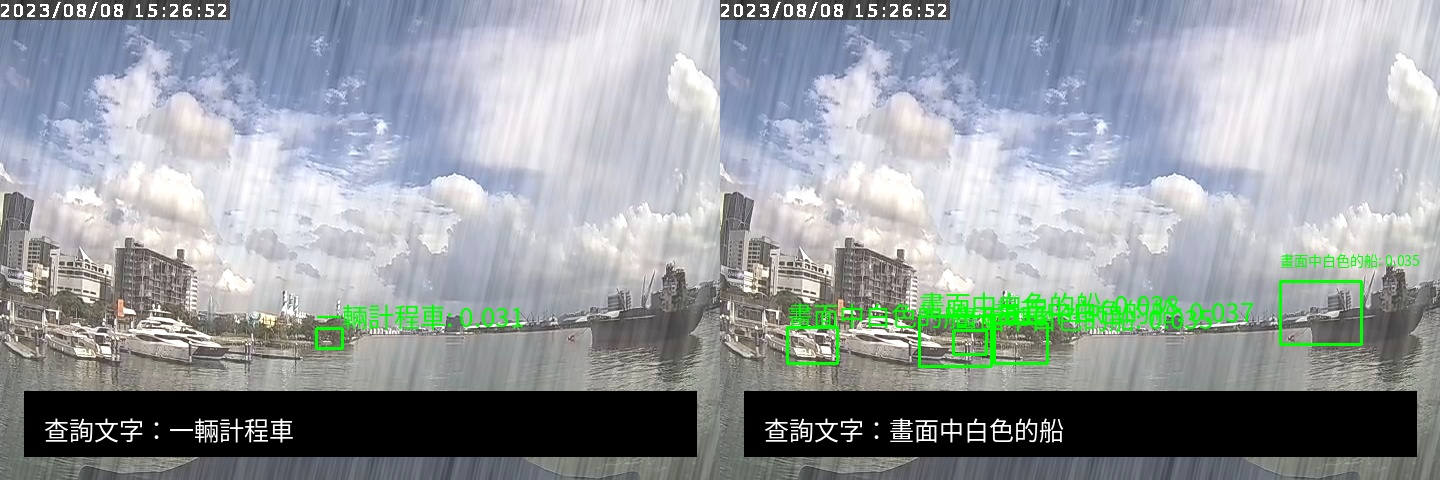
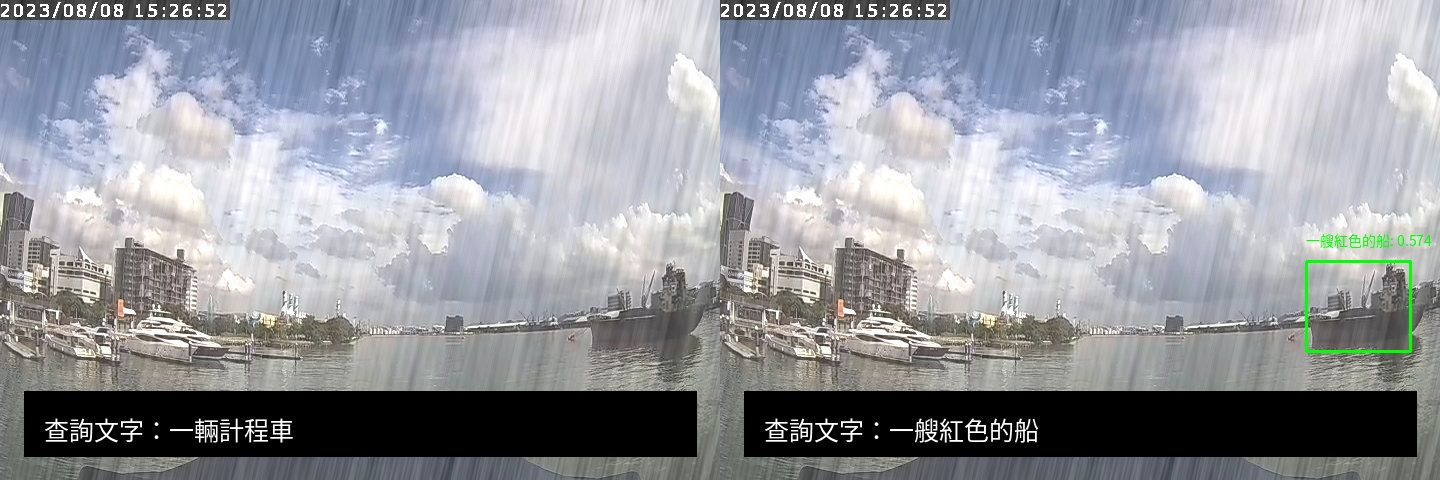
Add training data

Changed region(s): [[0.5312, 0.4688, 1.0, 0.7812], [0.2188, 0.625, 0.375, 0.75], [0.5938, 0.875, 0.75, 0.9375]]

diff --git a/units/infer.py b/units/infer.py
@@ -1272,7 +1272,7 @@ def main() -> None:
         ),
         text=[
             "一輛計程車",
-            "一艘白色的船",
+            "一艘紅色的船",
         ],
         imgsz=1024,
         device=0,
